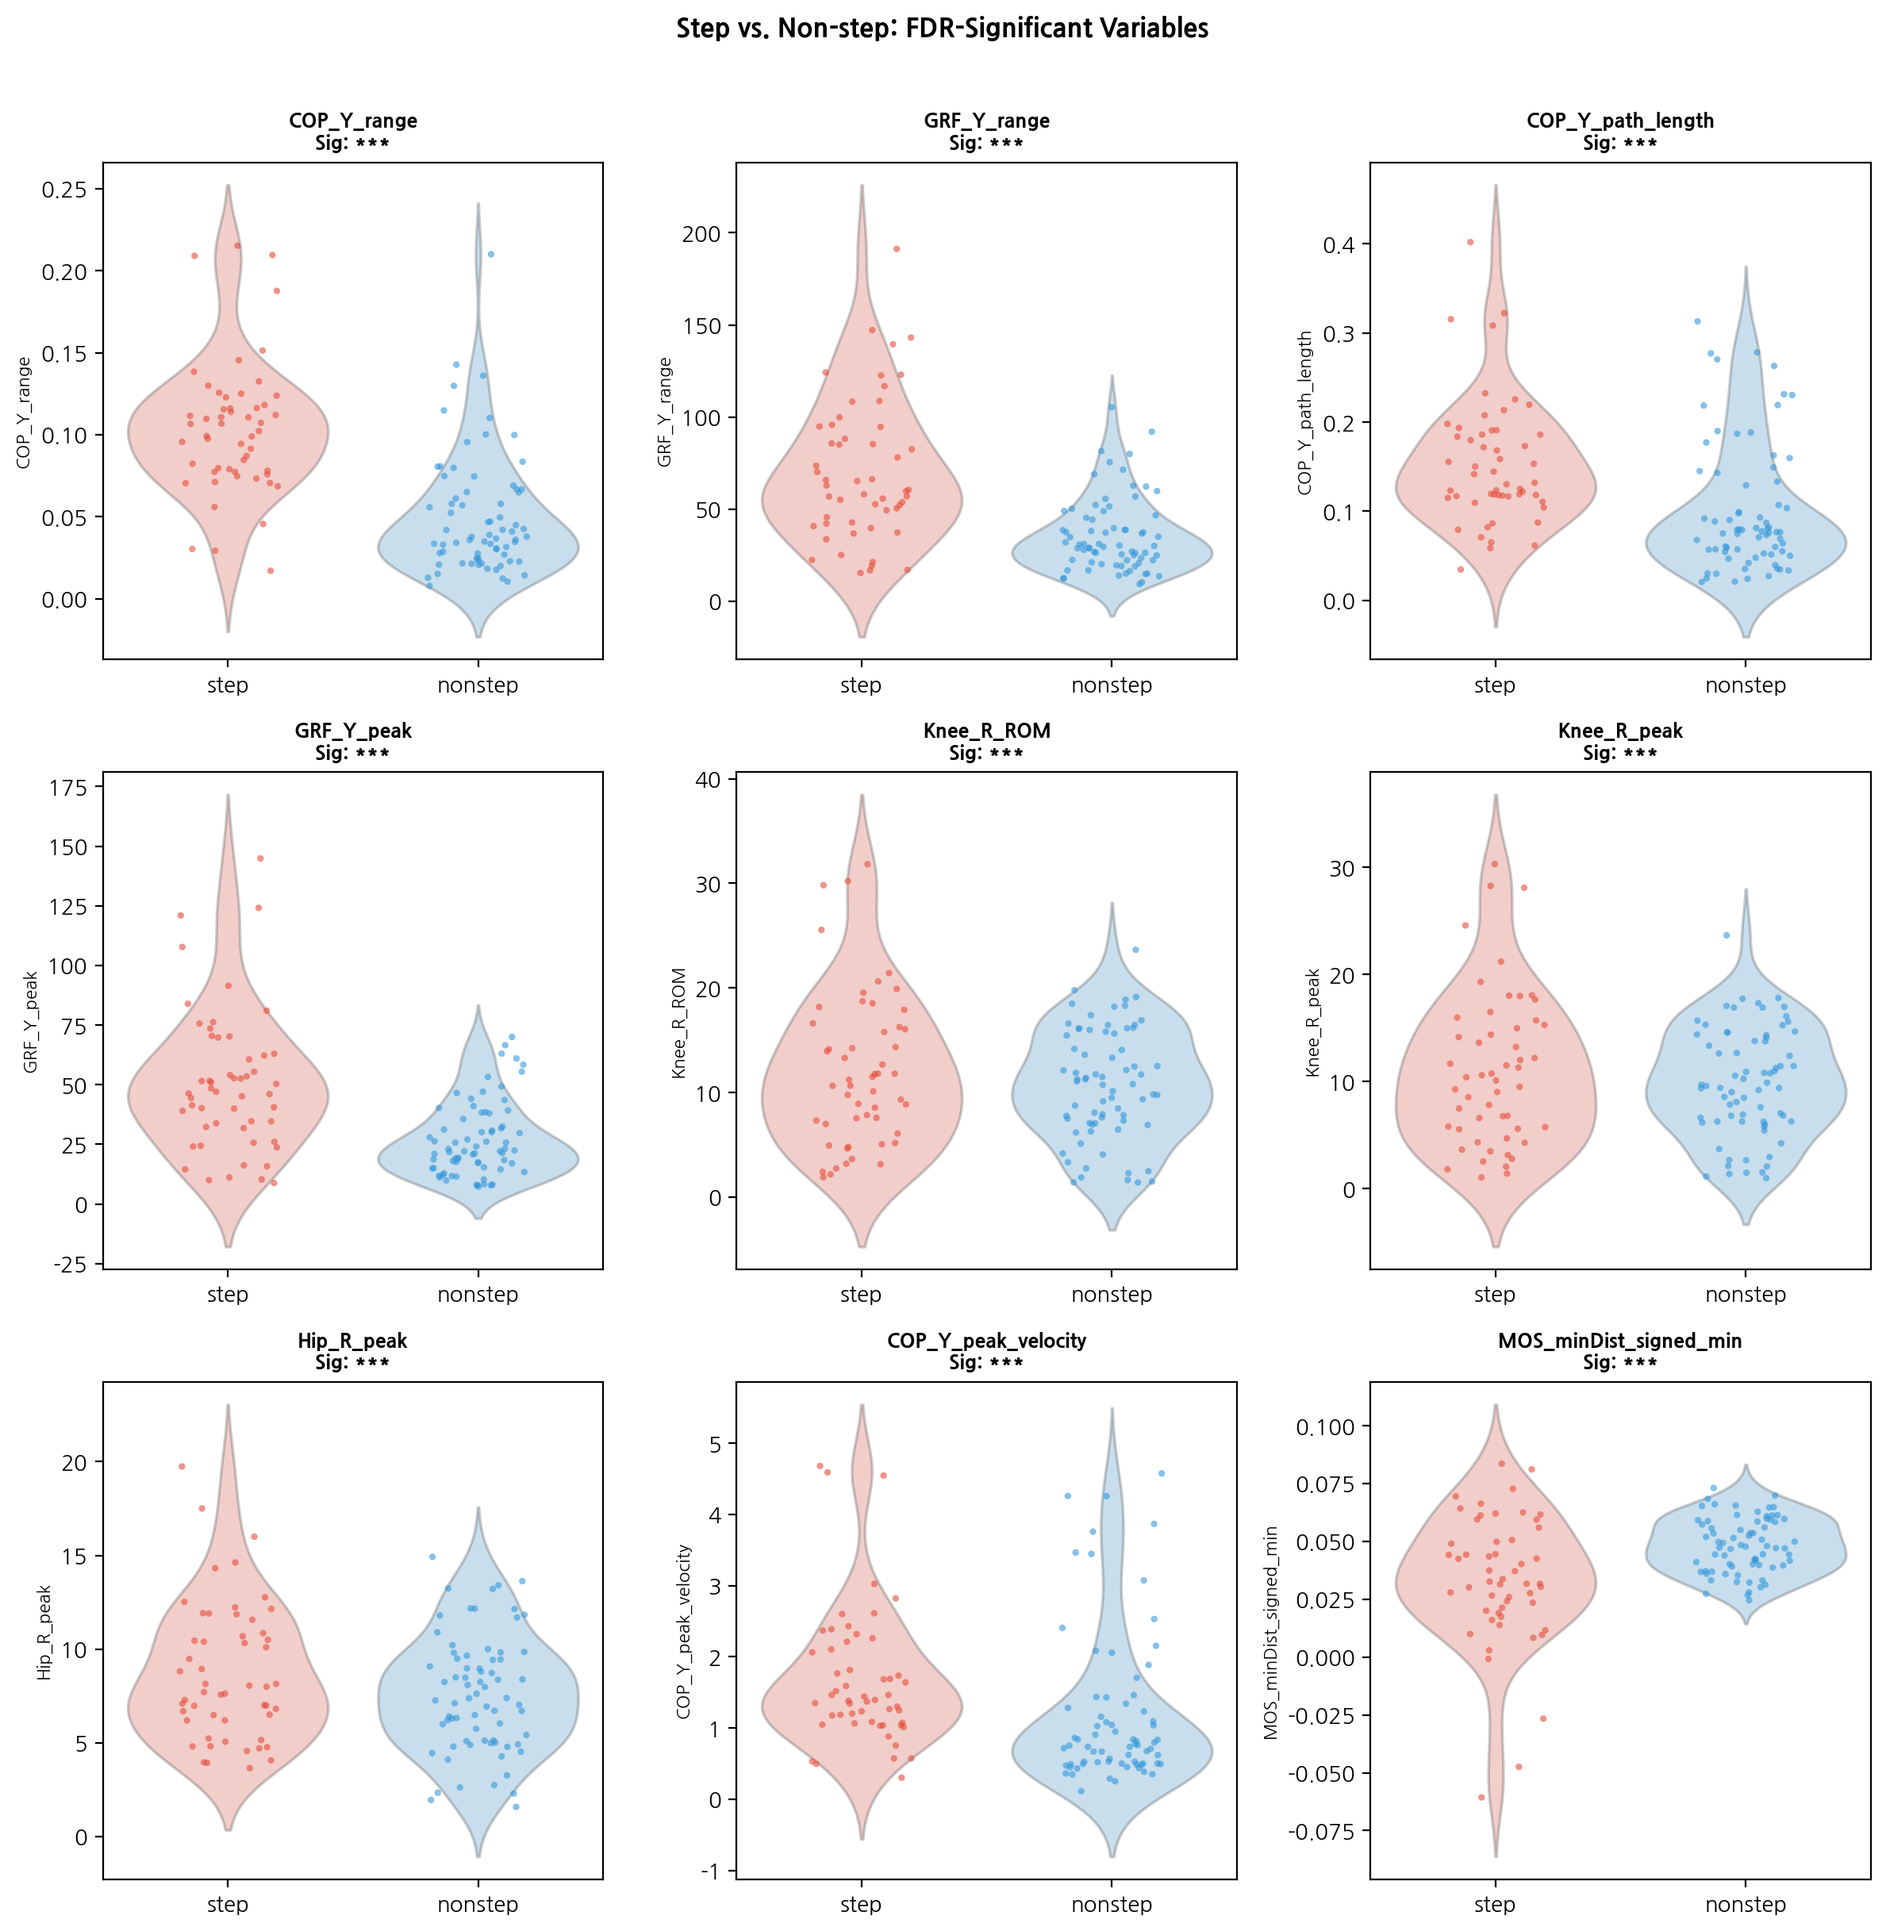
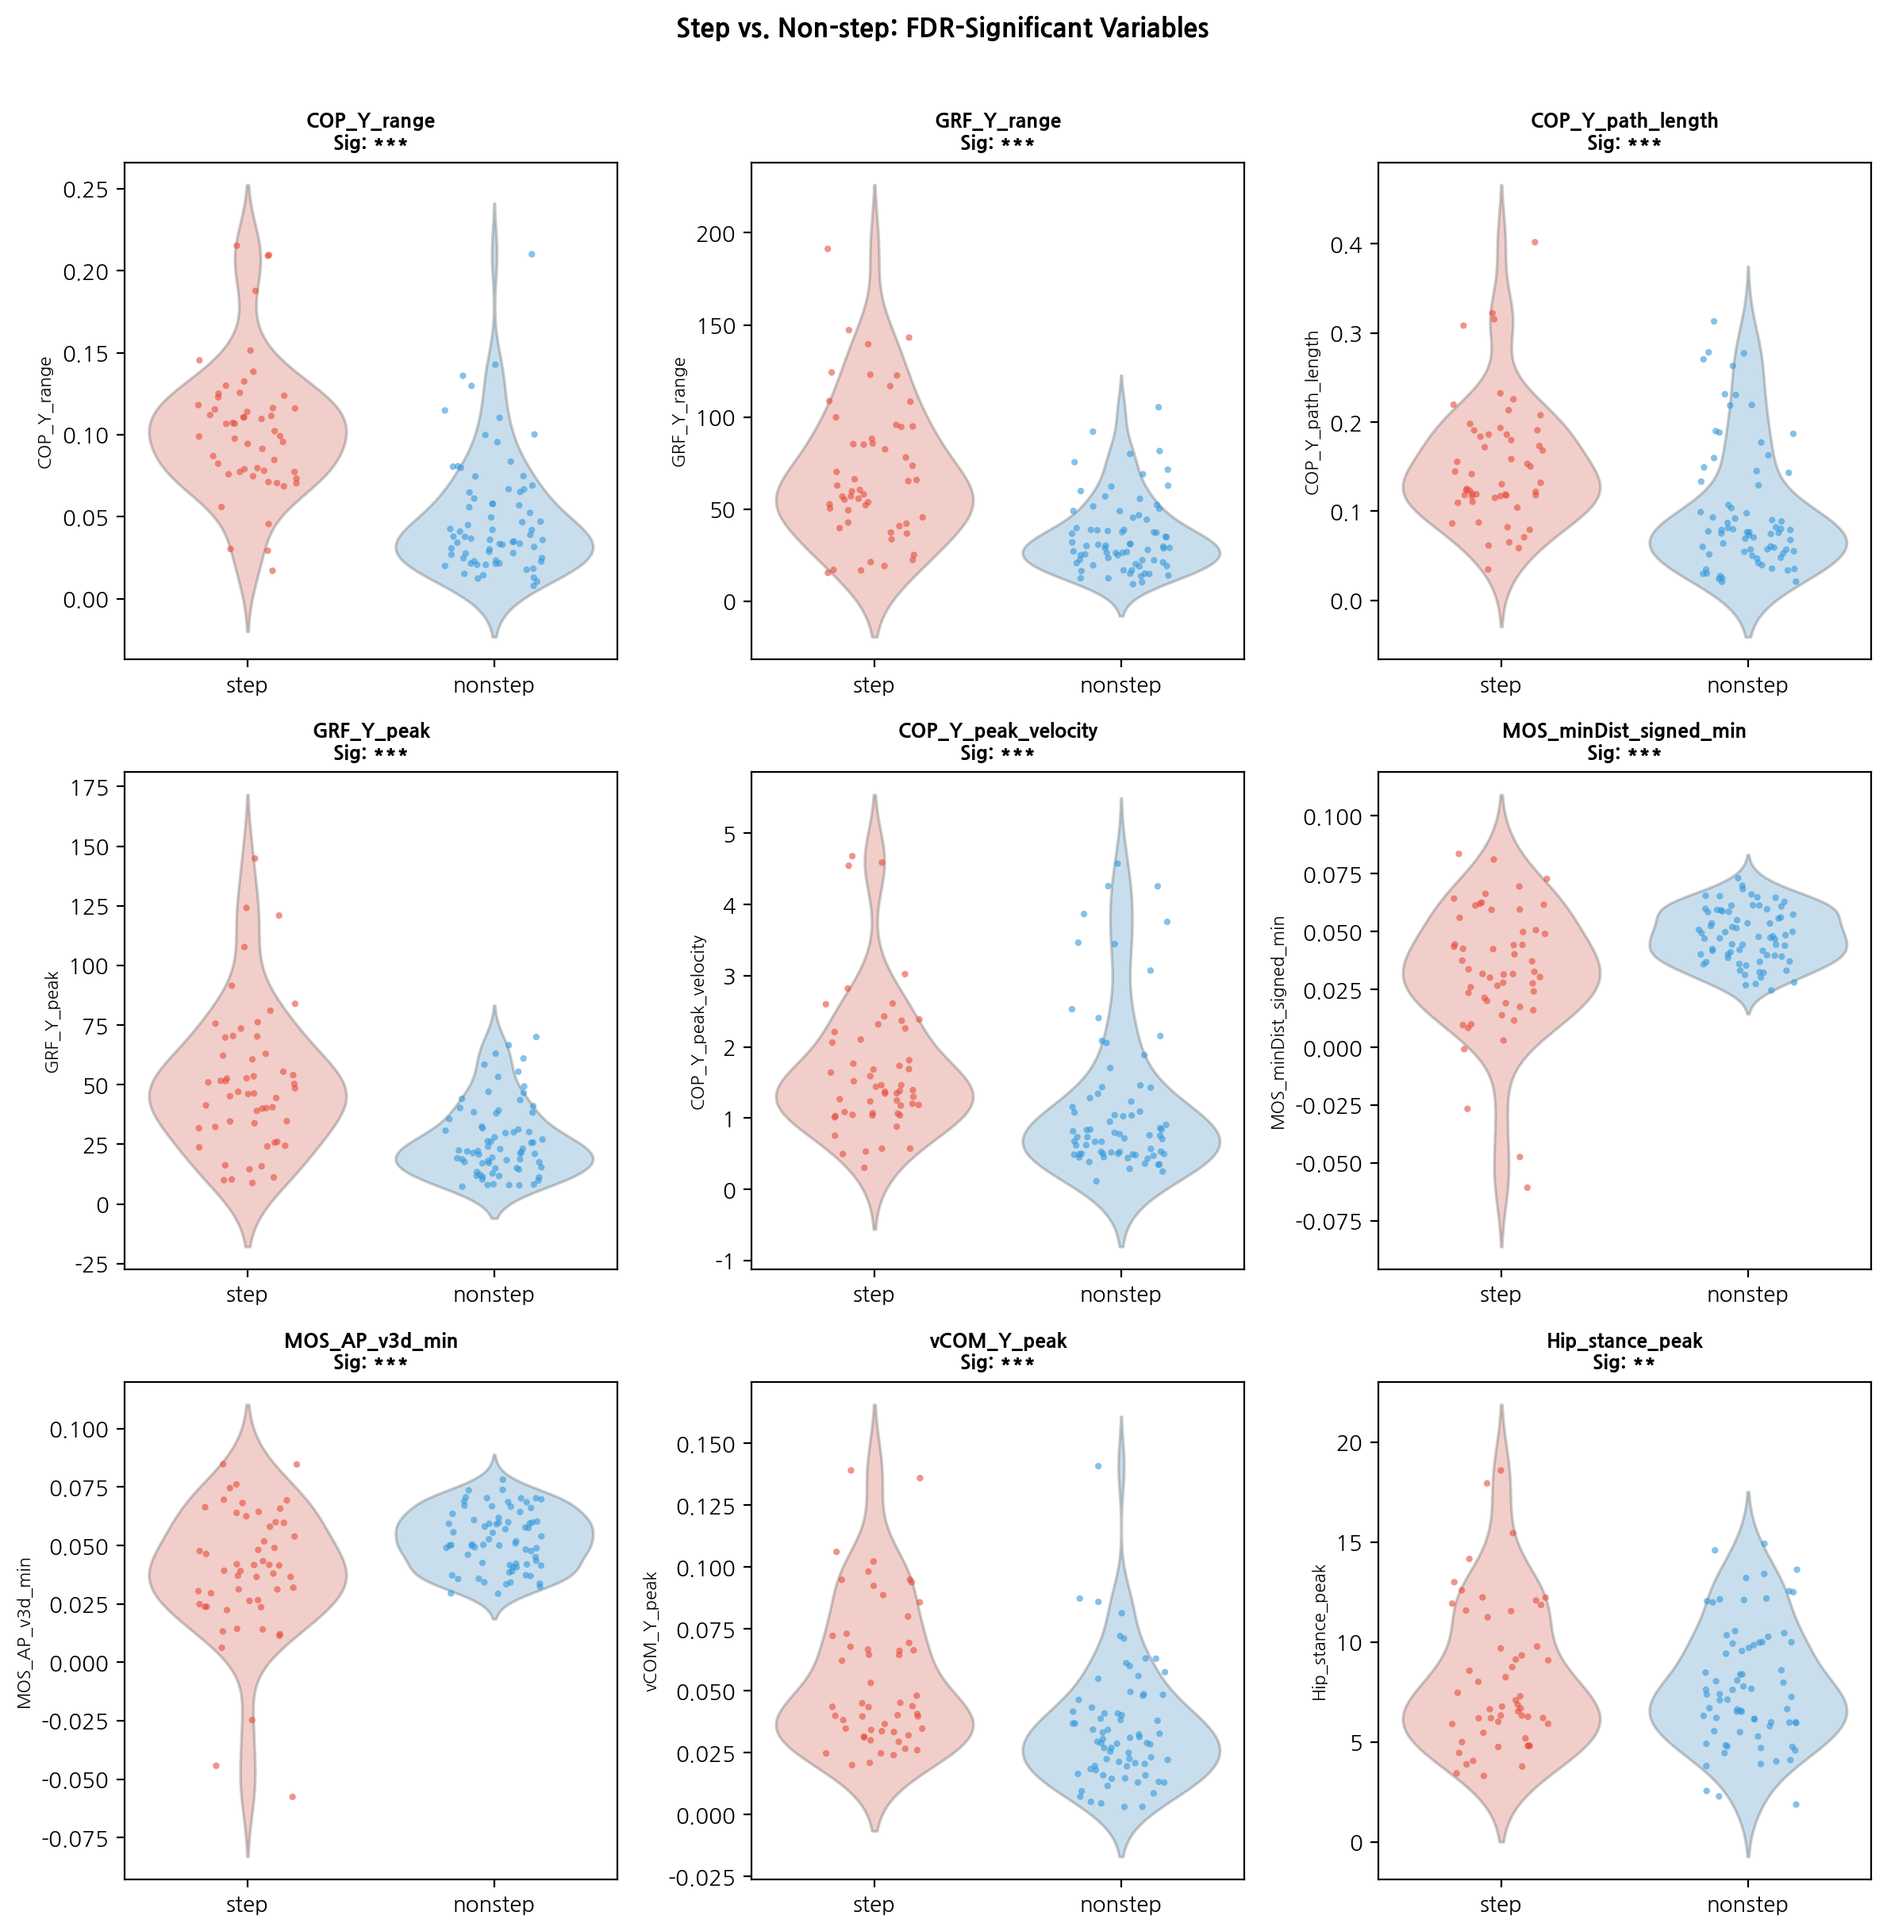
step_vs_nonstep LMM 관절각을 stance 기준으로 재정의
mixed==1 step trial 기반 major_step_side를 도입하고 step/nonstep 규칙에 따라 Hip/Knee/Ankle stance X 컬럼을 생성

joint DV를 *_stance_*로 교체하고 report/figure/QC(MD5·매핑검증 로그)를 동기화

diff --git a/analysis/step_vs_nonstep_lmm/analyze_step_vs_nonstep_lmm.py b/analysis/step_vs_nonstep_lmm/analyze_step_vs_nonstep_lmm.py
@@ -164,10 +164,15 @@ def resolve_r_runtime() -> tuple[str, dict]:
 _COM_AXES = ["X", "Y"]
 _COP_AXES = ["X", "Y"]
 _GRF_AXES = ["X", "Y", "Z"]
+_STANCE_X_SOURCES = [
+    ("Hip_stance_X_deg", "Hip_L_X_deg", "Hip_R_X_deg"),
+    ("Knee_stance_X_deg", "Knee_L_X_deg", "Knee_R_X_deg"),
+    ("Ankle_stance_X_deg", "Ankle_L_X_deg", "Ankle_R_X_deg"),
+]
 _JOINT_NAMES = [
-    ("Hip_R", "Hip_R_X_deg"),
-    ("Knee_R", "Knee_R_X_deg"),
-    ("Ankle_R", "Ankle_R_X_deg"),
+    ("Hip_stance", "Hip_stance_X_deg"),
+    ("Knee_stance", "Knee_stance_X_deg"),
+    ("Ankle_stance", "Ankle_stance_X_deg"),
     ("Trunk", "Trunk_X_deg"),
     ("Neck", "Neck_X_deg"),
 ]
@@ -199,7 +204,7 @@ def build_dv_specs() -> list[dict]:
     specs.append({"dv": "MOS_AP_v3d_min", "col": "MOS_AP_v3d", "agg": "min_val", "family": FAMILY_BALANCE})
     specs.append({"dv": "MOS_ML_v3d_min", "col": "MOS_ML_v3d", "agg": "min_val", "family": FAMILY_BALANCE})
 
-    # Joint angles (sagittal plane, right side)
+    # Joint angles (sagittal plane, stance-equivalent side)
     for name, col in _JOINT_NAMES:
         specs.append({"dv": f"{name}_ROM", "col": col, "agg": "range", "family": FAMILY_JOINT})
         specs.append({"dv": f"{name}_peak", "col": col, "agg": "abs_peak", "family": FAMILY_JOINT})
@@ -236,11 +241,89 @@ def load_csv(path: Path) -> pl.DataFrame:
 
 def load_platform_sheet(path: Path) -> pd.DataFrame:
     df = pd.read_excel(str(path), sheet_name="platform")
-    df["subject"] = df["subject"].astype(str).str.strip()
-    df["velocity"] = pd.to_numeric(df["velocity"], errors="coerce")
-    df["trial"] = pd.to_numeric(df["trial"], errors="coerce").astype("Int64")
-    df["step_TF"] = df["step_TF"].astype(str).str.strip()
-    return df
+    required = {"subject", "velocity", "trial", "step_TF", "state", "mixed"}
+    missing = sorted(required - set(df.columns))
+    if missing:
+        raise ValueError(f"platform sheet missing required columns: {missing}")
+
+    out = df[["subject", "velocity", "trial", "step_TF", "state", "mixed"]].copy()
+    out["subject"] = out["subject"].astype(str).str.strip()
+    out["velocity"] = pd.to_numeric(out["velocity"], errors="coerce")
+    out["trial"] = pd.to_numeric(out["trial"], errors="coerce").astype("Int64")
+    out["step_TF"] = out["step_TF"].astype(str).str.strip().str.lower()
+    out["state"] = out["state"].astype(str).str.strip().str.lower()
+    out["mixed"] = pd.to_numeric(out["mixed"], errors="coerce")
+    return out
+
+
+def build_subject_major_step_side(platform: pd.DataFrame) -> pd.DataFrame:
+    """Build subject-level major stepping side from mixed==1 step trials."""
+    trial_unique = platform[TRIAL_KEYS + ["step_TF", "state", "mixed"]].drop_duplicates().copy()
+    mask = (
+        trial_unique["mixed"].eq(1)
+        & trial_unique["step_TF"].eq("step")
+        & trial_unique["state"].isin(["step_r", "step_l"])
+    )
+    valid = trial_unique.loc[mask, ["subject", "state"]].copy()
+    if valid.empty:
+        raise ValueError("No mixed==1 step trials with state in {step_r, step_l} were found.")
+
+    counts = (
+        valid.assign(n=1)
+        .pivot_table(index="subject", columns="state", values="n", aggfunc="sum", fill_value=0)
+        .reset_index()
+    )
+    counts.columns.name = None
+    if "step_r" not in counts.columns:
+        counts["step_r"] = 0
+    if "step_l" not in counts.columns:
+        counts["step_l"] = 0
+
+    counts["step_r_count"] = pd.to_numeric(counts["step_r"], errors="coerce").fillna(0).astype(int)
+    counts["step_l_count"] = pd.to_numeric(counts["step_l"], errors="coerce").fillna(0).astype(int)
+    counts["major_step_side"] = np.where(
+        counts["step_r_count"] > counts["step_l_count"],
+        "step_r",
+        np.where(counts["step_l_count"] > counts["step_r_count"], "step_l", "tie"),
+    )
+    return counts[["subject", "step_r_count", "step_l_count", "major_step_side"]]
+
+
+def add_stance_joint_x_columns(df: pl.DataFrame, platform: pd.DataFrame) -> tuple[pl.DataFrame, pd.DataFrame]:
+    """Attach stance-equivalent sagittal joint columns to frame-level timeseries."""
+    major_side = build_subject_major_step_side(platform)
+    trial_meta = platform[TRIAL_KEYS + ["step_TF", "state"]].drop_duplicates().copy()
+
+    for out_col, _left, _right in _STANCE_X_SOURCES:
+        df = df.drop([out_col], strict=False)
+    df = df.drop(["step_TF", "state", "major_step_side"], strict=False)
+
+    df = (
+        df.with_columns(
+            pl.col("subject").cast(pl.Utf8).str.strip_chars(),
+            pl.col("velocity").cast(pl.Float64, strict=False),
+            pl.col("trial").cast(pl.Int64, strict=False),
+        )
+        .join(pl.from_pandas(trial_meta), on=TRIAL_KEYS, how="left")
+        .join(pl.from_pandas(major_side[["subject", "major_step_side"]]), on="subject", how="left")
+    )
+
+    stance_exprs: list[pl.Expr] = []
+    for out_col, left_col, right_col in _STANCE_X_SOURCES:
+        stance_exprs.append(
+            pl.when(pl.col("state") == "step_r")
+            .then(pl.col(left_col))
+            .when(pl.col("state") == "step_l")
+            .then(pl.col(right_col))
+            .when(pl.col("major_step_side") == "step_r")
+            .then(pl.col(left_col))
+            .when(pl.col("major_step_side") == "step_l")
+            .then(pl.col(right_col))
+            .otherwise((pl.col(left_col) + pl.col(right_col)) / 2.0)
+            .alias(out_col)
+        )
+
+    return df.with_columns(stance_exprs), major_side
 
 
 # ---------------------------------------------------------------------------
@@ -368,6 +451,18 @@ def load_and_prepare(csv_path: Path, xlsm_path: Path, specs: list[dict]) -> pd.D
 
     print("  Loading platform sheet...")
     platform = load_platform_sheet(xlsm_path)
+
+    print("  Building stance-equivalent joint columns (major step side from mixed==1)...")
+    df, major_side = add_stance_joint_x_columns(df, platform)
+    tie_rows = int((major_side["major_step_side"] == "tie").sum())
+    print(
+        "  major_step_side subjects="
+        f"{len(major_side)} (step_r={(major_side['major_step_side'] == 'step_r').sum()}, "
+        f"step_l={(major_side['major_step_side'] == 'step_l').sum()}, tie={tie_rows})"
+    )
+    if tie_rows > 0:
+        tie_subjects = major_side.loc[major_side["major_step_side"] == "tie", "subject"].tolist()
+        print(f"  tie subjects use nonstep average (L+R)/2: {', '.join(tie_subjects)}")
 
     # Compute per-trial end_frame (step_onset or subject-velocity mean)
     print("  Computing per-trial end_frame [platform_onset → step_onset]...")

diff --git a/.codex/issue.md b/.codex/issue.md
@@ -7,6 +7,7 @@ Policy:
 ---
 ## 2026-02-23
 
+- [ANALYSIS] `analysis/step_vs_nonstep_lmm/analyze_step_vs_nonstep_lmm.py`의 관절각 DV 정의가 `Hip_R/Knee_R/Ankle_R` 고정이라, `step_R/step_L`가 혼재한 데이터에서도 기능적 stance limb 비교가 아닌 우측 고정 비교로 집계되어 side 해석이 왜곡될 수 있었음.
 - [FORCEPLATE] `scripts/run_batch_all_timeseries_csv.py`의 forceplate 관성 제거 단계에서 C3D Stage01 변환 신호와 `shared_files` 템플릿 부호 기준이 어긋나 onset 이후 `GRF/GRM/COP` 대오차(상수 오프셋 포함)가 발생했음.
 - [VERIFY] 위 부호 정렬 수정 후에도 `scripts/verify_forceplate_stage01_parity.py --round_decimals 9 --abs_tol 1e-9` 기준에서는 미세 수치 차(`~1e-6` 수준, COP 일부 `~1e-3`)로 `mismatch_total`/`md5_equal` 엄격 조건을 만족하지 못함.
 - [PIPELINE] `main.py --overwrite` full batch 실행이 `data/all_data/251128_방주원_perturb_200_005.c3d`의 `T10` 마커 누락으로 중단되어, 변경 검증(출력 재생성/MD5 비교)이 기본 설정만으로는 완료되지 않음.
